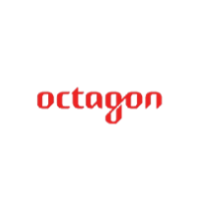
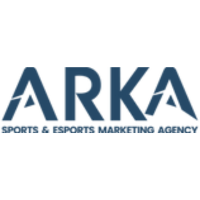
add partners

Changed region(s): [[0.0, 0.33, 0.99, 0.69]]

diff --git a/partners.html b/partners.html
@@ -230,37 +230,37 @@
         <section id="sports-item" class="container-fluid py-5 content-section"
         style="background-image: url('assets/image/17.png');" data-aos="fade-up">
     <div class="container py-5">
-        <h2 class="text-center text-white mb-4" style="margin-top: 150px;">Potential Partners</h2>
-        <p class="partners-description">At CROSSVIA, we seek partnerships with distinguished organizations that share our commitment to excellence in sports. By uniting our strengths with those of industry leaders and innovators, we deliver tailored solutions to drive success, enhance performance, and unlock opportunities. Our combined expertise can help you achieve your goals and create a lasting impact in the sports industry.</p>
-        <!-- <div class="swiper-container">
+        <h2 class="text-center text-white mb-4" style="margin-top: 150px;">Strategic Partners</h2>
+        <p class="partners-description">At CROSSVIA, we value the strength of strategic partnerships to enhance our capabilities and broaden our impact, focusing on forging meaningful relationships with distinguished organizations that share our dedication to excellence in the sports industry. Our strategic partners include industry leaders, innovators, and key players across various sectors, each bringing unique expertise and perspectives to enhance our offerings. By combining our collective strengths, we deliver tailored solutions that drive success, enhance performance, and unlock new opportunities in the ever-evolving sports landscape. Explore our strategic partnerships and discover how our collaborative expertise can help you achieve a lasting impact within the sports industry.</p>
+        <div class="swiper-container">
             <div class="swiper-wrapper">
                 <div class="swiper-slide">
                     <img src="assets/image/partner-1.png" alt="Partner 1">
-                    <h5>IMG</h5>
-                    <p>IMG Consulting is a division of IMG, a global leader in sports, events, media, and fashion. They offer a wide range of services designed to enhance the performance and marketability of sports entities. IMG Consulting provides strategic planning, sponsorship acquisition, brand development, Hospitality, event management, and media rights consulting.
+                    <h5>Tour International</h5>
+                    <p>With over 30 years of expertise, Tour International is a leading provider of sports and educational travel experiences. It specializes in sports festivals, training camps, and educational tours and excels at creating, managing, and executing prestigious sporting events worldwide, ensuring seamless and luxurious experiences.
                     </p>
                 </div>
                 <div class="swiper-slide">
                     <img src="assets/image/partner-2.png" alt="Partner 2">
-                    <h5>Premier Sport Psychology</h5>
-                    <p>A leading provider of sports psychology services based in Minnesota, USA. The company offers a wide range of mental performance services to athletes, coaches, and organizations. Their offerings include mental skills training, performance enhancement techniques, leadership development, team dynamics, and career transition support.</p>
+                    <h5>Great SportsTech</h5>
+                    <p>Great SportsTech Limited (GSL) is a leading provider of turnkey sports infrastructure solutions in South Asia, with over two decades of industry expertise. Specializing in designing, developing, and implementing state-of-the-art sports facilities, GSL delivers comprehensive, next-generation solutions that integrate the latest innovations in sports infrastructure. By consistently advancing the standards of multisport facility development, GSL aims to redefine the landscape of sports infrastructure, setting new benchmarks for excellence in the sector.</p>
                 </div>
                 <div class="swiper-slide">
                     <img src="assets/image/partner-3.png" alt="Partner 3">
-                    <h5>Octagon</h5>
-                    <p>Octagon is a leading global sports and entertainment marketing agency. They offer consulting services to help clients maximize their impact in the sports industry. Octagon provides sponsorship and marketing consulting, athlete and talent management, event management, and digital and social media strategy.</p>
+                    <h5>Arka Alliance</h5>
+                    <p>is a dynamic sports and esports marketing agency that excels in forging authentic, impactful partnerships for brands. With extensive expertise in both traditional sports and the rapidly growing esports industry, Arka delivers tailored marketing solutions designed to meet the distinct needs of each sector. By blending creativity, strategic insights, and a deep understanding of the unique dynamics of stadiums and gaming arenas, Arka helps brands make a lasting impact in both worlds.</p>
                 </div>
                  <div class="swiper-slide">
                   <img src="assets/image/partner-4.png" alt="Partner 4">
-                  <h5>Optimum Nutrition</h5>
-                  <p>Optimum Nutrition is a company involved in various regional fitness initiatives and events. They aim to raise awareness about nutrition, health, and sports, providing expert advice to athletes and fitness enthusiasts.</p>
+                  <h5>53Six</h5>
+                  <p>53six is a creative agency specializing in brand strategy, design, web development, and digital marketing. The agency helps businesses build strong brand identities, develop user-friendly websites, and implement impactful digital marketing and transformation campaigns. With an integrated approach, 53six enables brands to grow, engage their audience, and stand out in a competitive market.</p>
               </div>
               <div class="swiper-slide">
                   <img src="assets/image/partner-5.png" alt="Partner 5">
-                  <h5>Gatorade Sports Science Institute</h5>
-                  <p>GSSI conducts cutting-edge research on sports nutrition and offers consulting services based on its findings. Its services focus on hydration, energy intake, and recovery strategies for athletes. GSSI also provides individual consultations, team workshops, and educational resources on sports nutrition. In addition, its line of service also includes training and workshops in sports science.</p>
+                  <h5>Vortigate</h5>
+                  <p>is a leading provider of virtual reality (VR) and augmented reality (AR) services, specializing in creating interactive experiences that redefine digital reality. With a focus on innovation, Vortigate pioneers advanced solutions that push the boundaries of what is possible in the digital space. Committed to excellence, the company remains at the forefront of the VR and AR industries, offering transformative experiences across various sectors, including sports.</p>
               </div>
-              <div class="swiper-slide">
+              <!-- <div class="swiper-slide">
                   <img src="assets/image/partner-6.png" alt="Partner 6">
                   <h5>Wasserman </h5>
                   <p>Wasserman is a global sports marketing and talent management company that represents athletes, coaches, and broadcasters across various sports. It offers athlete management, marketing and endorsement deals, social media strategy, financial planning, brand building, and event management.</p>
@@ -274,12 +274,12 @@
                   <img src="assets/image/partner-8.png" alt="Partner 8">
                   <h5>Infront Sports & Media</h5>
                   <p>Infront Sports & Media is a major player in sports marketing and media rights management. It manages media rights, sponsorships, and event production for various international sports federations, leagues and major brands.</p>
-              </div>
+              </div> -->
             </div>
             <div class="swiper-pagination"></div>
             <div class="swiper-button-next"></div>
             <div class="swiper-button-prev"></div>
-        </div> -->
+        </div>
     </div>
 </section>
 

diff --git a/index.html b/index.html
@@ -714,14 +714,14 @@
       </section>
 
     <!-- partners section --> 
-<!-- <section
+<section
 id="partners" 
 class="container-fluid py-5 d-flex content-section"
 style="background-image: url('assets/image/16.png');"
 data-aos="fade-up"
 >
 <div class="container py-5 text-center">
-  <h2 class="mb-4">Our Partners</h2>
+  <h2 class="mb-4">Our Strategic Partners</h2>
   <p>Transforming the Sports Industry with Visionary Global Partners.</p>
   <div class="row g-4">
     <div class="col-6 col-md-3">
@@ -739,7 +739,7 @@ data-aos="fade-up"
     <div class="col-6 col-md-3">
       <img src="assets/image/partner-5.png" alt="Partner 5" class="img-fluid">
     </div>
-    <div class="col-6 col-md-3">
+    <!-- <div class="col-6 col-md-3">
       <img src="assets/image/partner-6.png" alt="Partner 6" class="img-fluid">
     </div>
     <div class="col-6 col-md-3">
@@ -747,10 +747,10 @@ data-aos="fade-up"
     </div>
     <div class="col-6 col-md-3">
       <img src="assets/image/partner-8.png" alt="Partner 8" class="img-fluid">
-    </div>
+    </div> -->
   </div>
 </div>
-</section> -->
+</section>
 
 
       <!-- Investment Slider Section -->
